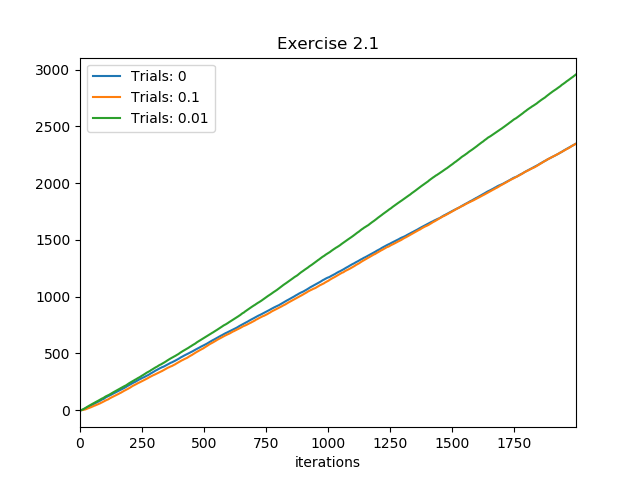
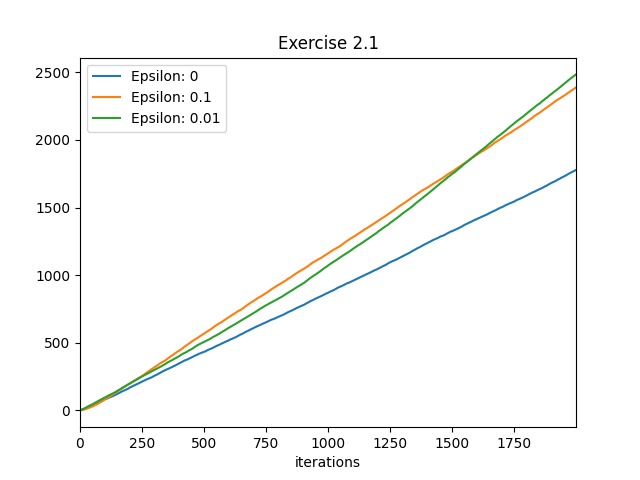
Clean up & Refactor

diff --git a/RL_nbandits/run_experiments.py b/RL_nbandits/run_experiments.py
@@ -1,8 +1,7 @@
 # Fill in this file
-import numpy as np 
-from src.agent import SimpleAgent
+import numpy as np
+from src.agent import Agent
 from src.bandit import NBandits
-from src.nArmBandit import Bandit
 from src.experiment import Experiment, Trial
 
 
@@ -12,28 +11,26 @@ if __name__ == "__main__":
     # Exercise 2.1 ----------------------------------------
 
     # trial function
-    def run_bandit(args):
-        bandit_list = args['bandits']
-        rewards = [] 
-        for bandit in bandit_list:
-            bandit.update()
-            rewards.append(np.sum(bandit.total_rewards))
+    def run_agents(args):
+        agent_list = args['agents']
+        rewards = []
+        for agent in agent_list:
+            agent.play()
+            rewards.append(agent.total_rewards)
 
-        reward = np.mean(rewards)
-        return reward
+        avg_reward = np.mean(rewards)
+        return avg_reward
 
     # - bandit params
     n_arms = 10
-    e0, e01, e001 = [0]*10, [0.1]*10, [0.01]*10
-    epsilons = [e0, e01, e001]
-    rewards_control = [np.random.normal() for i in range(n_arms)]
-    bandits = [[Bandit(n_arms, e, rewards=rewards_control) for e in ep] for ep in epsilons]
+    epsilons = [0, 0.1, 0.01]
+    agents = [[Agent(ep, 0, NBandits(n_arms), method="means")
+                for i in range(10)] for ep in epsilons]
 
-   
     # Build Trials
-    trial_args = [{'bandits': bandit_list} for bandit_list in bandits]
-    trials = [Trial(run_bandit, trial_arg, 'Trials: ' + str(e[0])) 
-                for trial_arg, e in zip(trial_args, epsilons)]
+    trial_args = [{'agents': agent_list} for agent_list in agents]
+    trials = [Trial(run_agents, trial_arg, 'Epsilon: ' + str(trial_arg['agents'][0].exploration))
+                for trial_arg in trial_args]
     print(trials)
     # Experiment
     experiment = Experiment(trials, 'Exercise 2.1')
@@ -45,7 +42,7 @@ if __name__ == "__main__":
 
     def run_iteration_trial_one(nothing):
         bandit = NBandits(10)
-        agent = SimpleAgent(0.1, 0, bandit, method="means")
+        agent = Agent(0.1, 0, bandit, method="means")
         for i in range(5000):
             if agent.total_plays % 1 == 0:
                 agent.bandit.alternating_dependent_random_walk()
@@ -55,7 +52,7 @@ if __name__ == "__main__":
 
     def run_iteration_trial_two(nothing):
         bandit = NBandits(10)
-        agent = SimpleAgent(0.1, 0, bandit, method="constant", constant=0.1)
+        agent = Agent(0.1, 0, bandit, method="constant", constant=0.1)
         for i in range(5000):
             if agent.total_plays % 1 == 0:
                 agent.bandit.alternating_dependent_random_walk()

diff --git a/RL_nbandits/src/bandit.py b/RL_nbandits/src/bandit.py
@@ -2,32 +2,6 @@
 # class to interface with for a bandit AKA a randomly distributed 'slot machine'
 
 import numpy as np
-"""
-class IncompleteBanditException(Exception):
-
-    def __init__(self):
-        super().__init__()
-
-
-class Distribution:
-
-    def __init__(self, chance):
-        self.chance = chance
-
-    def sample(self):
-        pass
-
-
-# Normal Distribution - NOT UNIFORM
-class NormalDistribution(Distribution):
-
-    def __init__(self, chance, mean, std):
-        super().__init__(chance)
-        self.std = std
-        self.mean = mean
-
-    def sample(self):
-        return np.random.normal(loc=self.mean, scale=self.std)"""
 
 
 class NBandits:

diff --git a/RL_nbandits/src/experiment.py b/RL_nbandits/src/experiment.py
@@ -1,10 +1,11 @@
 # experiment.py
 # A combination of Classes to use to run an experiment.
 import os
+from multiprocessing import Pool
+
 import numpy as np
 import pandas as pd
 import matplotlib.pyplot as plt
-from multiprocessing import Pool
 
 
 class ExperimentLog:
@@ -105,5 +106,5 @@ class Experiment:
 
         if show:
             plt.show()
-        
+
         return data

diff --git a/RL_nbandits/src/agent.py b/RL_nbandits/src/agent.py
@@ -5,7 +5,7 @@ import numpy as np
 import math
 
 
-class SimpleAgent:
+class Agent:
 
     accepted_types = {"means": True, "constant": True, "increasing": True}
 

diff --git a/RL_nbandits/exercises.md b/RL_nbandits/exercises.md
@@ -6,6 +6,11 @@ perform best in the long run in terms of cumulative reward and cumulative
 probability of selecting the best action? How much better will it be? Express
 your answer quantitatively.*
 
+![](figs/Exercise_2.1.png)
+
+These are the cumulative average rewards of running an agents with given epsilon values over 2000 steps.
+
+Epsilon of 0 looks as if it will have the smallest value while epsilon 0.01 looks like it will have the greatest. Although 0.01 starts off worse than 0.1, once it eventually discovers the optimal policy through its slow exploration, it begins to exploit it more than 0.1 would resulting in a greater cumulative reward.
 
 ## Exercise 2.2
 *Give pseudocode for a complete algorithm for the n-armed
@@ -35,15 +40,15 @@ Repeat while playing:
 *If the step-size parameters, αk, are not constant, then the estimate Qk is a weighted average of previously received rewards with a weighting
 different from that given by (2.6). What is the weighting on each prior reward
 for the general case, analogous to (2.6), in terms of αk?*
-  
-Q<sub>k+1</sub> = Q<sub>k</sub> + &alpha;<sub>k</sub> * [R<sub>k</sub> - Q<sub>k</sub>]  
 
-= &alpha;<sub>k</sub>R<sub>k</sub> + (1 - &alpha;<sub>k</sub>) * Q<sub>k</sub>  
+Q<sub>k+1</sub> = Q<sub>k</sub> + &alpha;<sub>k</sub> * [R<sub>k</sub> - Q<sub>k</sub>]
 
-= &alpha;<sub>k</sub>R<sub>k</sub> + (1 - &alpha;<sub>k</sub>) * [&alpha;<sub>k-1</sub>R<sub>k-1</sub> + (1 - &alpha;<sub>k-1</sub>) * Q<sub>k-1</sub>]  
-= &alpha;<sub>k</sub>R<sub>k</sub> + (1 - &alpha;<sub>k</sub>)&alpha;<sub>k-1</sub>R<sub>k-1</sub> + (1 - &alpha;<sub>k</sub>)(1 - &alpha;<sub>k-1</sub>) * Q<sub>k-1</sub>  
+= &alpha;<sub>k</sub>R<sub>k</sub> + (1 - &alpha;<sub>k</sub>) * Q<sub>k</sub>
 
-= &alpha;<sub>k</sub>R<sub>k</sub> + (1 - &alpha;<sub>k</sub>)&alpha;<sub>k-1</sub>R<sub>k-1</sub> + (1 - &alpha;<sub>k</sub>)(1 - &alpha;<sub>k-1</sub>) * [&alpha;<sub>k-2</sub>R<sub>k-2</sub> + (1 - &alpha;<sub>k-2</sub>) * Q<sub>k-2</sub>]  
+= &alpha;<sub>k</sub>R<sub>k</sub> + (1 - &alpha;<sub>k</sub>) * [&alpha;<sub>k-1</sub>R<sub>k-1</sub> + (1 - &alpha;<sub>k-1</sub>) * Q<sub>k-1</sub>]
+= &alpha;<sub>k</sub>R<sub>k</sub> + (1 - &alpha;<sub>k</sub>)&alpha;<sub>k-1</sub>R<sub>k-1</sub> + (1 - &alpha;<sub>k</sub>)(1 - &alpha;<sub>k-1</sub>) * Q<sub>k-1</sub>
+
+= &alpha;<sub>k</sub>R<sub>k</sub> + (1 - &alpha;<sub>k</sub>)&alpha;<sub>k-1</sub>R<sub>k-1</sub> + (1 - &alpha;<sub>k</sub>)(1 - &alpha;<sub>k-1</sub>) * [&alpha;<sub>k-2</sub>R<sub>k-2</sub> + (1 - &alpha;<sub>k-2</sub>) * Q<sub>k-2</sub>]
 = &alpha;<sub>k</sub>R<sub>k</sub> + (1 - &alpha;<sub>k</sub>)&alpha;<sub>k-1</sub>R<sub>k-1</sub> + (1 - &alpha;<sub>k</sub>)(1 - &alpha;<sub>k-1</sub>)&alpha;<sub>k-1</sub>R<sub>k-2</sub> + (1 - &alpha;<sub>k</sub>)(1 - &alpha;<sub>k-2</sub>)(1 - &alpha;<sub>k-2</sub>) * Q<sub>k-2</sub>
 
 = $\alpha_{k}R_{k} + \sum_{i=1}^{k} [\alpha_{k-i}R_{k-i}\prod_{j=0}^{k-2}(1 - \alpha_{k-j})] + Q_{0}\prod_{j=0}^{k-1}(1 - \alpha_{k-j})$
